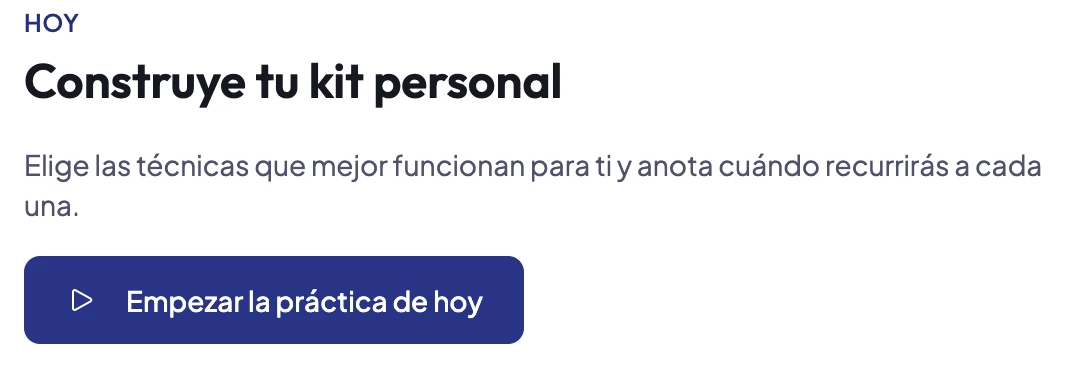
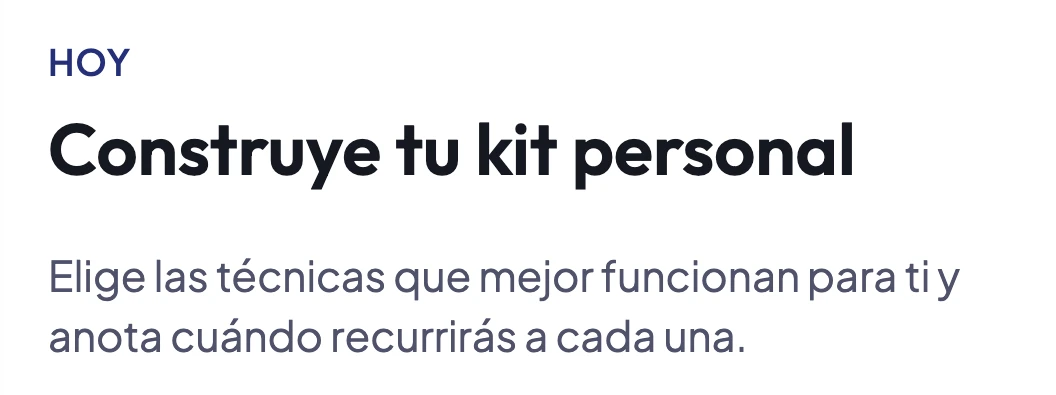
fix(D62): numbered two-step exchange without the photo, narrower crops without dead controls

diff --git a/src/pages/ForPatients.tsx b/src/pages/ForPatients.tsx
@@ -31,8 +31,20 @@ const SCREENSHOT_SIZES = [
 // content stops two thirds down, which is invisible at the size it runs beside
 // the photograph and looks like a failed render at the size this row runs.
 
-const exchangeShotClass =
-  "h-auto w-full rounded-2xl bg-white ring-1 ring-calm-navy/10 shadow-[0_24px_44px_-24px_rgba(41,53,135,0.4)]";
+const EXCHANGE = [
+  {
+    key: "today",
+    src: "/screenshots/detail/exchange-today.webp",
+    width: 1056,
+    height: 395,
+  },
+  {
+    key: "reply",
+    src: "/screenshots/detail/exchange-reply.webp",
+    width: 984,
+    height: 545,
+  },
+] as const;
 const eyebrowClass = "font-body t-eyebrow text-calm-lavender-ink";
 
 // The device frame the app band already uses, and the screen rectangle inside
@@ -144,7 +156,7 @@ export default function ForPatients() {
             {/* Two columns from lg up. The right half of this fold used to be
                 empty, which is what made the page read as a document rather
                 than the front of a product. */}
-            <div className="grid items-center gap-10 lg:grid-cols-2 lg:gap-12">
+            <div className="grid items-center gap-10 lg:grid-cols-[1.1fr,0.9fr] lg:gap-12">
               <div>
                 <p className={eyebrowClass}>{t.intro.eyebrow}</p>
                 <h1 className="t-display mt-5 font-accent font-bold text-calm-navy tracking-tight">
@@ -161,56 +173,43 @@ export default function ForPatients() {
                 )}
                 <StoreBadges className="mt-4" />
               </div>
-              {/* The photo sits between the two screens, overlapped by the reply. */}
-              <div className="relative mx-auto w-full max-w-[560px] lg:mx-0 lg:ml-auto">
+              <ol className="relative mx-auto w-full max-w-[460px] space-y-6 lg:mx-0 lg:ml-auto">
                 <div
                   aria-hidden="true"
-                  className="pointer-events-none absolute -right-8 -bottom-[12%] h-[460px] w-[460px] rounded-full"
+                  className="pointer-events-none absolute -right-10 top-1/2 h-[480px] w-[480px] -translate-y-1/2 rounded-full"
                   style={{
                     background:
                       "radial-gradient(closest-side, rgba(224,216,250,0.75), rgba(238,234,253,0.34) 52%, rgba(241,238,253,0) 78%)",
                   }}
                 />
-                <figure className="relative z-10 w-full">
-                  <figcaption className="mb-2 font-body text-sm font-semibold text-calm-navy">
-                    {t.intro.exchange.todayLabel}
-                  </figcaption>
-                  <img
-                    src={localizedAsset(
-                      "/screenshots/detail/exchange-today.webp",
-                      locale,
+                {EXCHANGE.map(({ key, src, width, height }, i) => (
+                  <li key={key} className="relative">
+                    {i === 0 && (
+                      <span
+                        aria-hidden="true"
+                        className="absolute left-[13px] top-7 -bottom-6 w-0.5 bg-calm-lavender/60"
+                      />
                     )}
-                    alt={t.intro.exchange.todayAlt}
-                    width={1080}
-                    height={392}
-                    className={exchangeShotClass}
-                  />
-                </figure>
-                <div className="relative z-0 flex items-end justify-end">
-                  <CutOut
-                    name="patients-hero"
-                    alt={t.intro.photoAlt}
-                    priority
-                    renderHeight={{ base: 220, sm: 260, lg: 280 }}
-                    className="h-[220px] sm:h-[260px] lg:h-[280px]"
-                  />
-                </div>
-                <figure className="relative z-10 -mt-24 ml-auto w-[94%] sm:-mt-28">
-                  <figcaption className="mb-2 w-fit rounded-full bg-white/90 px-2.5 py-0.5 font-body text-sm font-semibold text-calm-navy">
-                    {t.intro.exchange.replyLabel}
-                  </figcaption>
-                  <img
-                    src={localizedAsset(
-                      "/screenshots/detail/exchange-reply.webp",
-                      locale,
-                    )}
-                    alt={t.intro.exchange.replyAlt}
-                    width={1040}
-                    height={290}
-                    className={exchangeShotClass}
-                  />
-                </figure>
-              </div>
+                    <p className="relative mb-3 flex items-center gap-3 font-body text-sm font-semibold text-calm-navy">
+                      <span
+                        aria-hidden="true"
+                        className="flex h-7 w-7 items-center justify-center rounded-full bg-calm-lavender font-heading text-sm font-extrabold tabular-nums"
+                      >
+                        {i + 1}
+                      </span>
+                      {t.intro.exchange[`${key}Label`]}
+                    </p>
+                    <img
+                      src={localizedAsset(src, locale)}
+                      alt={t.intro.exchange[`${key}Alt`]}
+                      width={width}
+                      height={height}
+                      fetchPriority={i === 0 ? "high" : undefined}
+                      className="pointer-events-none relative h-auto w-full select-none rounded-2xl bg-white ring-1 ring-calm-navy/10 shadow-[0_24px_44px_-24px_rgba(41,53,135,0.4)]"
+                    />
+                  </li>
+                ))}
+              </ol>
             </div>
           </div>
         </section>

diff --git a/src/i18n/locales/pt.ts b/src/i18n/locales/pt.ts
@@ -364,10 +364,10 @@ export const pt: Dictionary = {
       headlineLine2: "entre sessões.",
       body: "A UpSpeech é como continuas a praticar, entre consultas, o trabalho que fazes com o teu terapeuta da fala. O teu terapeuta define o plano e acompanha como está a correr enquanto praticas na app.",
       exchange: {
-        todayLabel: "O teu terapeuta define",
+        todayLabel: "Definida para ti",
         todayAlt:
           "O painel do paciente: a prática de hoje, definida pelo terapeuta, com um botão para começar",
-        replyLabel: "Depois responde",
+        replyLabel: "Dr. Rivera responde",
         replyAlt: "Uma nota do terapeuta sobre uma gravação do paciente",
       },
       inviteNote: "O teu terapeuta envia-te um convite para começares.",

diff --git a/src/i18n/locales/es.ts b/src/i18n/locales/es.ts
@@ -363,10 +363,10 @@ export const es: Dictionary = {
       headlineLine2: "entre sesiones.",
       body: "UpSpeech es la forma de seguir practicando entre citas el trabajo que haces con tu logopeda. Tu terapeuta define el plan y ve cómo va todo mientras tú practicas en la app.",
       exchange: {
-        todayLabel: "Tu terapeuta lo define",
+        todayLabel: "Definida para ti",
         todayAlt:
           "El panel del paciente: la práctica de hoy, definida por el terapeuta, con un botón para empezar",
-        replyLabel: "Después responde",
+        replyLabel: "Dr. Rivera responde",
         replyAlt: "Una nota del terapeuta sobre una grabación del paciente",
       },
       inviteNote: "Tu logopeda te envía una invitación para empezar.",

diff --git a/src/i18n/locales/en.ts b/src/i18n/locales/en.ts
@@ -362,10 +362,10 @@ export const en = {
       headlineLine2: "between sessions.",
       body: "UpSpeech is how you keep practising the work you do with your speech therapist between appointments. Your therapist sets the plan and follows how it's going while you practise in the app.",
       exchange: {
-        todayLabel: "Your therapist sets it",
+        todayLabel: "Set for you",
         todayAlt:
           "The patient dashboard: today's practice, set by the therapist, with a button to start",
-        replyLabel: "Then replies",
+        replyLabel: "Dr. Rivera replies",
         replyAlt: "A note from the therapist on a recording the patient made",
       },
       inviteNote: "Your therapist sends you an invite to start.",
